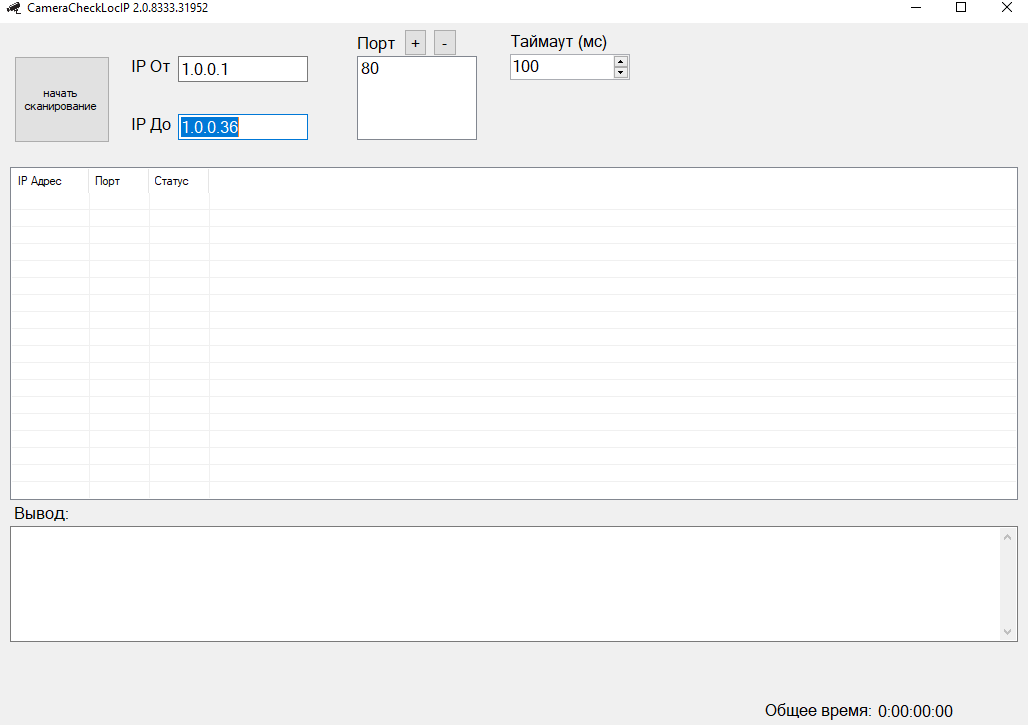
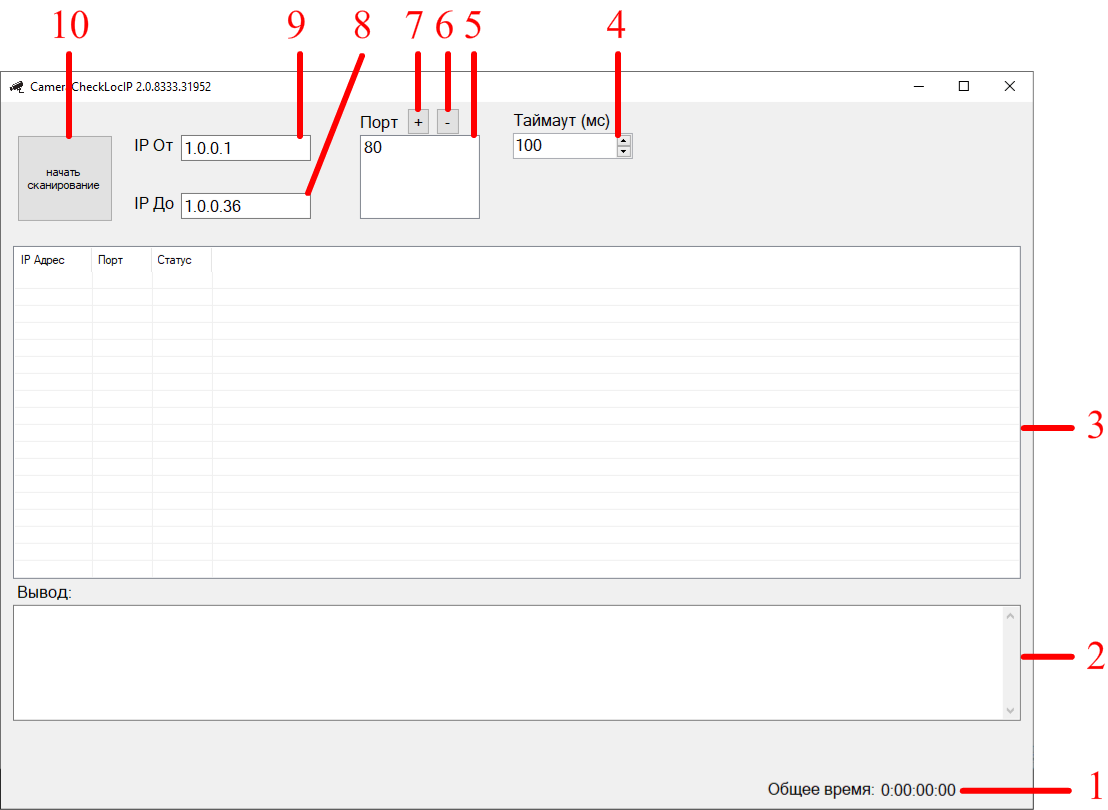
Добавленна инструкция

diff --git a/README.MD b/README.MD
@@ -15,7 +15,24 @@ http://<ip>[:<port>]/cgi-bin/admin/privacy.cgi
 если во время проверки произошли какие то ошибки, то выводиться «проверка не выполнена».
 
 # Инструкция по применению
+[!image](https://github.com/Mark65537/CameraCheckLocIP/blob/master/screens/mainform.png)
+1. Показывает общее время работы программы
+2. Панель вывода. В текущий момент используется только для вывода недоступных IP адрессов
+3. Список в котором выводятся доступные IP адресса(если есть), с их доступными портами и статус проверки HTTP-запросом
+4. Время задержки для Ping в милисекундах(в среднем Ping требуется где то 60мс, поэтому по умолчанию выставленно 100мс)
+5. Список портов которые будут проверятся, если список пустой тогда порты не будут учитываться
+6. Кнопка для удаления выбранного порта из списка
+7. Кнопка для добавления порта. При нажатие на кнопку выводиться окно, в которое нужно ввести порт, который вам нужен
+[!image](https://github.com/Mark65537/CameraCheckLocIP/blob/master/screens/addport.png)
+8. IP адресс конца проверки
+9. IP адресс начала проверки
+10. Кнопка при нажатие на которую начинается проверка
 
+Если проверка прошла без всяких ошибок, то выводиться окно:
+[!image](https://github.com/Mark65537/CameraCheckLocIP/blob/master/screens/checkOK.png) 
+
+Если же во время проверки произошла какая то ошибка, то выводиться окно, где будет написанно краткое описание ошибки:
+[!image](https://github.com/Mark65537/CameraCheckLocIP/blob/master/screens/checkFail.png) 
 
 # Описание классов программы
 Классы разделенны по задачам. Каждый класс отвечает за свою задачу
